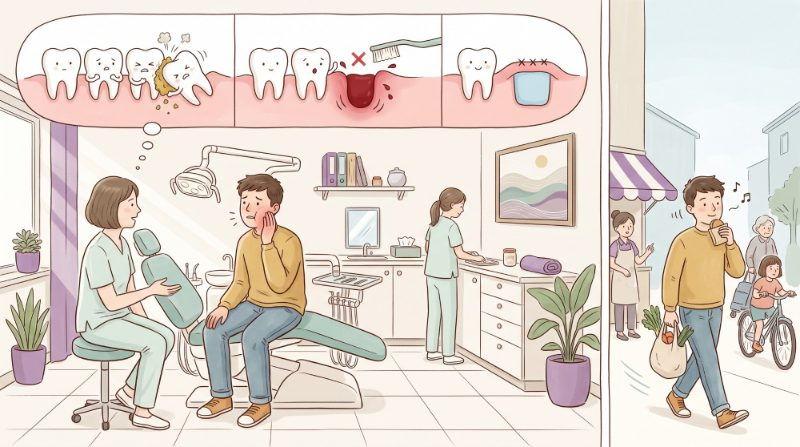
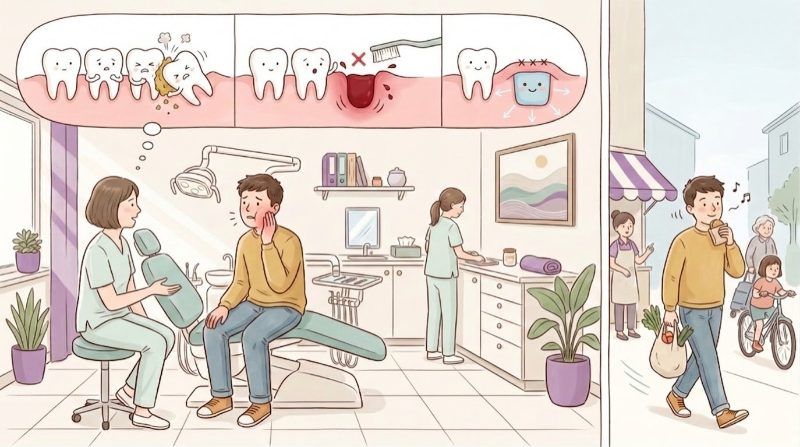
拔智齒 HERO 換成膠原蛋白有微笑與擴散箭頭的版本
三張 JPEG 由 tools/hero-resize.mjs 從 drafts/wisdom-hero-src.png 重出
（原檔下緣有 1px 白列，照同一把尺裁掉才過得了白框那一關，1374×767、
比例 1.7914 在容差內）。

posts/wisdom-tooth/index.html 只動 .post-hero 那一行 alt：補上方塊上的
微笑與五支箭頭的方向，順手拿掉原本就不存在的「旁邊的牙齒比出讚」。
⚠ alt 在 <main> 裡會動到內容雜湊，照 CLAUDE.md 第五節把 build-manifest
的 updated 還原成 2026-08-19（換圖＋改圖說對讀者不算內容更新），
所以 dateModified、sitemap lastmod、頁尾更新日都沒有跳。

檔名沿用，post-meta 一個字沒動；og:image 仍是 1600x893。
提示詞與參考圖存在 drafts/，推導補進 ILLUSTRATION.md 第八之一節。

diff --git a/posts/wisdom-tooth/index.html b/posts/wisdom-tooth/index.html
@@ -280,7 +280,7 @@
                    ../../assets/hero-wisdom-photo-1600.jpg 1600w,
                    ../../assets/hero-wisdom-photo-2000.jpg 2000w"
            sizes="(min-width: 1041px) 656px, (min-width: 721px) 660px, calc(100vw - 28px)"
-           alt="插畫分成左右兩格。左格是明亮的診間：鮑伯頭的女醫師坐在圓凳上攤開手掌解說，穿芥末黃毛衣的年輕男生坐在診療椅邊緣、一手扶著微微泛紅的臉頰聽著，後方另一位工作人員在檯面整理器械。上方一個大思考泡泡分成三段：左段一排牙齒最後面那顆往前傾倒、擠著前面那顆，縫裡卡著食物碎屑；中段那顆拔掉後的窩洞裡有血塊、四周牙齦泛紅，上方一個紅色叉叉，牙刷停在旁邊不敢靠近；右段窩洞裡填進一塊淺藍色方塊、牙齦覆蓋縫合並縫上幾針，旁邊的牙齒比出讚。右格是幾天後的同一個人走在街上，一手拎著菜、一手拿著紅豆餅邊走邊吃，哼著歌，店家與路人在旁邊" width="2000" height="1116">
+           alt="插畫分成左右兩格。左格是明亮的診間：鮑伯頭的女醫師坐在圓凳上攤開手掌解說，穿芥末黃毛衣的年輕男生坐在診療椅邊緣、一手扶著微微泛紅的臉頰聽著，後方另一位工作人員在檯面整理器械。上方一個大思考泡泡分成三段：左段一排牙齒最後面那顆往前傾倒、擠著前面那顆，縫裡卡著食物碎屑；中段那顆拔掉後的窩洞裡有血塊、四周牙齦泛紅，上方一個紅色叉叉，牙刷停在旁邊不敢靠近；右段窩洞裡填進一塊淺藍色方塊，方塊上有一張微笑的臉，四周五支淡藍色的細箭頭分別往左、左下、下、右下、右散開，牙齦覆蓋縫合並縫上幾針，旁邊的牙齒微笑著。右格是幾天後的同一個人走在街上，一手拎著菜、一手拿著紅豆餅邊走邊吃，哼著歌，店家與路人在旁邊" width="2000" height="1116">
     </figure>
   </div>
 

diff --git a/ILLUSTRATION.md b/ILLUSTRATION.md
@@ -1118,12 +1118,42 @@ untextured single-tone clothing; bare empty rooms with nothing in them.
    定案是女醫師（**鮑伯頭**，他指定的，「比較簡單利落」）＋ 女性助理 ＋
    街上的女店家、老太太、小女孩。⚠ 仍然守「不要一整群人」，只加了必要的幾個。
 
+### 八之一、2026-08-21 換過一版：膠原蛋白有臉了，周邊有五支箭頭
+
+使用者：「幫我在第三格膠原蛋白加上交給我吧令人放心的微笑表情，然後在周邊畫上跟
+膠原蛋白顏色系差不多但比較淡的藍白色箭頭，表示往外擴散。」兩輪定案並換上線
+（三張 JPEG 重出，`post-meta` 與 `<main>` 只動了那一行 `alt`）。提示詞逐字存在
+`drafts/wisdom-hero-collagen-edit-prompt.md`，參考圖 `drafts/collagen-arrows-ref.png`，
+原檔 `drafts/wisdom-hero-src.png`。四件值得記住的：
+
+- ⚠⚠ **上面第 7 條那個「沒有臉」由使用者解除了。** 那條原本是防它被同化成牙齒的鎖，
+  所以**其餘幾何（圓角方塊、四邊平、沒有牙冠、沒有牙根）要留著並寫得更重**，
+  只拿掉「臉」那兩個字。實測這樣寫，方塊沒有變形。
+- ⚠⚠ **臉的大小不要用百分比，用畫面內的錨點。** 第一輪我寫「眼睛是方塊寬的 8%、
+  笑弧 28%」，出來的眼睛是旁邊那顆牙的 **3.5 倍**、嘴是 **2.2 倍**，還自己長出眉毛。
+  （而且那兩個數字我也給錯了，量出來牙齒那顆換算過來是 5.7%／18.4%。）
+  改成「**和旁邊那顆牙的臉一模一樣大，兩張臉並排看不出差別**」就對了。
+  ⚠ 同一輪確認：寫 `NOT closed crescent eyes` 擋不住閉眼弧，要正面寫
+  「**眼睛是實心圓點，除此之外都不是**」。
+- ⚠⚠ **箭頭用文字描述會變成簡報美工的塊狀箭頭**（等寬柱身＋大三角頭，而且全是直的）。
+  這是第十之一節那條的又一個例子 —— **改成給參考圖一次就中**。
+  參考圖是自己畫的結構圖（Chromium 畫 SVG 再截圖），把兩件事一起畫死：
+  兩張臉一樣大、五支箭頭的粗細／弧度／開口 V 頭／方向。
+  ⚠ 提示詞裡要註明**它只是形狀參考、不是風格範本**，不然平塗會被抄過去。
+- **方向要逐一列名**：第一版寫 radiating outward，出來八支、三支往上越過縫線跑到
+  白底上。定案寫死「**左、左下、下、右下、右，五支，方塊上方什麼都不准有**」。
+
+⚠ **改圖模型會把整張重畫一遍**，不是只補那一塊 —— 交回來的是 1374×768，
+放到 2000 要撐 1.46 倍（同第十之八節生物陶瓷那次）。平塗撐得住，但**能要大的就要大的**。
+⚠ 交回來那張下緣有 **1px 的白列**，`tools/hero-resize.mjs` 直接擋下來（第七節第 6 條）。
+用同一把尺（亮度平均 >238 且標準差 <6）裁掉再跑就過了，比例 1.7914 仍在容差內。
+
 ### 檔案
 
-⚠ **2026-08-18 當下：圖已定案，但檔案還沒進 repo**，所以
-`assets/hero-wisdom-photo-{800,1600,2000}.jpg` 三張都還不存在，
-那一篇目前沒有分享圖、首頁卡的縮圖是破的。收到原檔要做的事照第七節
-〈收到新圖要做的事〉那六條走。
+~~⚠ **2026-08-18 當下：圖已定案，但檔案還沒進 repo**~~ → 三張 JPEG 早已上線，
+2026-08-21 又整組換成加了微笑與箭頭的版本（見上面八之一）。
+原檔在 `drafts/wisdom-hero-src.png`，要重出就跑
+`node tools/hero-resize.mjs drafts/wisdom-hero-src.png wisdom-photo`。
 
 ---
 
